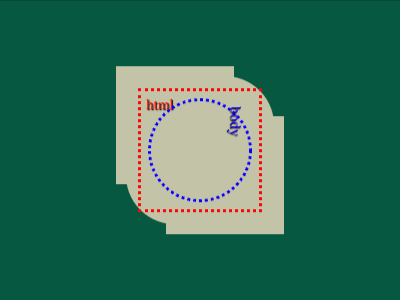
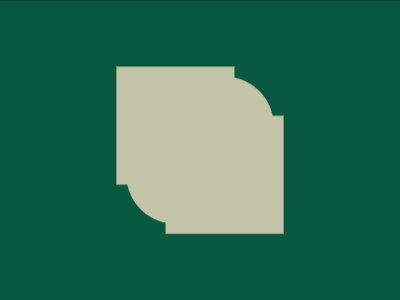
Score: 695.76, Characters: 150 (100.00% match) - CSSHub

Changed region(s): [[0.3, 0.21, 0.72, 0.78], [0.54, 0.6, 0.6, 0.66], [0.39, 0.57, 0.42, 0.63]]

diff --git a/Daily Targets/2026-08-01/README.md b/Daily Targets/2026-08-01/README.md
@@ -22,31 +22,28 @@ Challenge: <https://cssbattle.dev/play/Zbbue9b0vZdg6WFTCh4C>
 ## Code
 
 ```html
-<style>
-  * {
-    background:#C3C3A8;
-    margin:91 141;
-    color:C3C3A8;
-    box-shadow:25px 25px,-25px -25px,0 0 0 9em #065840;
-    *{
-      border-radius:1in;
-      margin:10;
-      rotate:90deg;
-      font:0%a
+<style>*{margin:91 141;background:var(--x,#065840);color:C3C3A8;box-shadow:inset 0 9in,-26q -26q,26q 26q;*{margin:10;border-radius:2in;scale:-1 1;--x:
 ```
 
 ## Prettified code
 
 ```html
 <style>
+* {
+  margin: 91 141;
+  background: var(--x, #065840);
+  color: C3C3A8;
+  box-shadow:
+    inset 0 9in,
+    -26Q -26Q,
+    26Q 26Q;
   * {
-    background:#C3C3A8;
-    margin:91 141;
-    color:C3C3A8;
-    box-shadow:25px 25px,-25px -25px,0 0 0 9em #065840;
-    *{
-      border-radius:1in;
-      margin:10;
-      rotate:90deg;
-      font:0%a
+    margin: 10;
+    border-radius: 2in;
+    scale: -1 1;
+    --x:;
+  }
+}
+
+</style>
 ```

diff --git a/README.md b/README.md
@@ -91,7 +91,7 @@
 <summary><strong>August 2026 (1/1+)</strong></summary>
 
 <ul>
-<li><a href="./Daily%20Targets/2026-08-01/">Aug 1, 2026</a> (214 Characters)</li>
+<li><a href="./Daily%20Targets/2026-08-01/">Aug 1, 2026</a> (150 Characters)</li>
 </ul>
 </details>
 </li>
